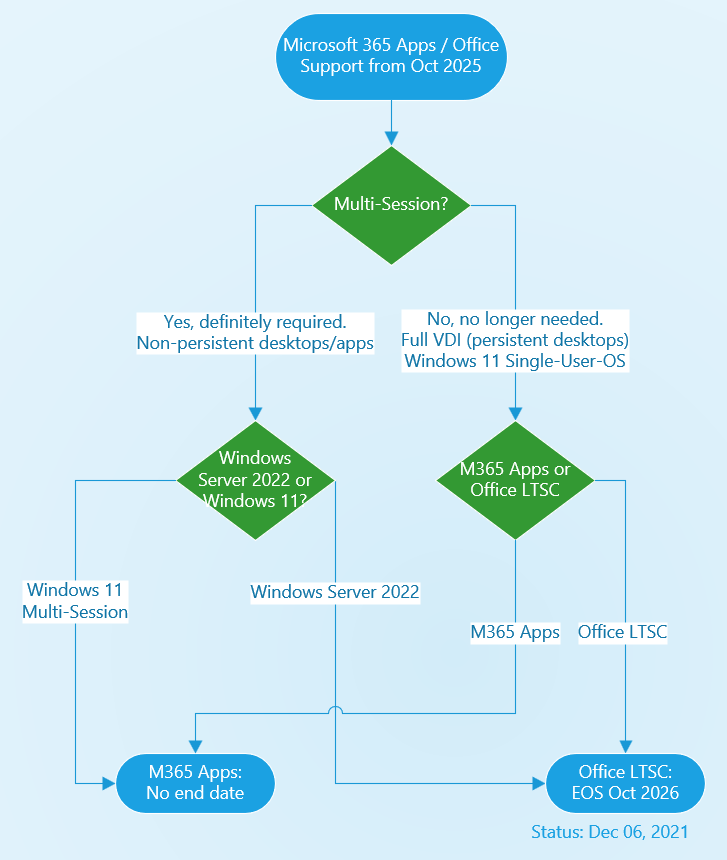
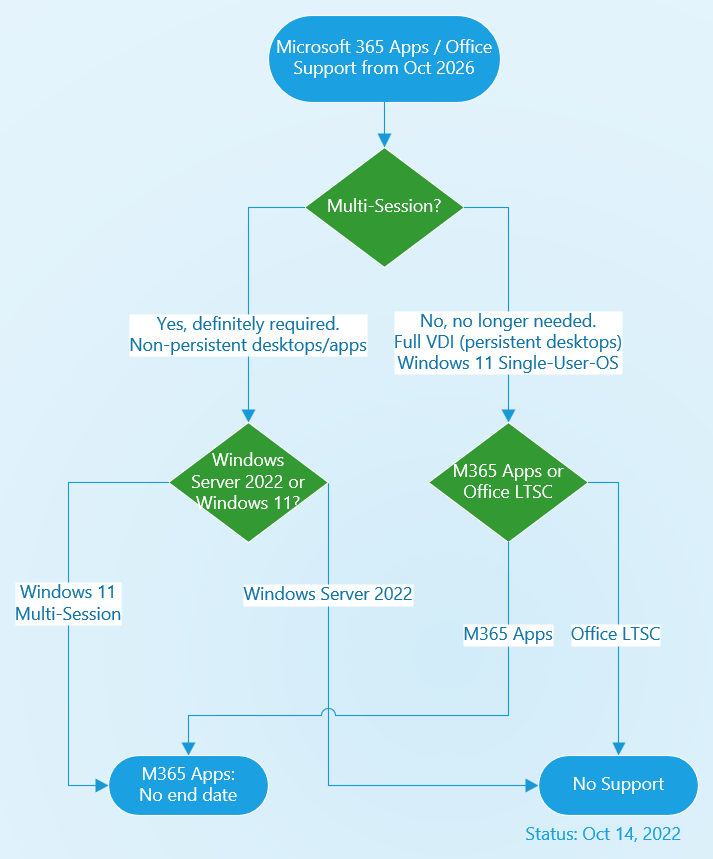
updated SupportM365AppsMultiSessionOS.md to the latest news

diff --git a/_posts/2022-26-08-SupportM365AppsMultiSessionOS.md b/_posts/2022-26-08-SupportM365AppsMultiSessionOS.md
@@ -1,11 +1,11 @@
 ---
 layout: post
-title:  "How to support Microsoft 365 apps on multi-session OS from 2025?"
+title:  "How to support Microsoft 365 apps on multi-session OS from 2026?"
 date:   2022-08-26 14:00:00 +0100
 categories: AVD
 tags: [AVD,Microsoft365,AzureStackHCI,Azure]
 ---
-# How to support Microsoft 365 apps on multi-session OS from 2025?
+# How to support Microsoft 365 apps on multi-session OS from 2026?
 
 ![This image shows the AVDPunk Header](/assets/img/2022-08-26/2022-08-26-000.png)
 
@@ -16,18 +16,18 @@ tags: [AVD,Microsoft365,AzureStackHCI,Azure]
 
 ## Introduction
 
-It's hard to read, but support for Microsoft 365 Apps on Windows Server 2019 ends in October 2025 and there is no support on Windows Server 2022. 
+It's hard to read, but support for Microsoft 365 Apps on Windows Server 2019 ends in October 2025 and on Windows Server 2022 ends in October 2026, when main support for Windows Server 2022 ends.  
 
 Here are the official statements from Microsoft documentation:
 > Microsoft 365 Apps is supported on Windows Server 2019 only until October 2025.
 
-> Microsoft 365 Apps isn’t supported on Windows Server 2022.
+> Microsoft 365 Apps is supported on Windows Server 2022 only until October 2026, which is when mainstream support ends for Windows Server 2022.
 
 All statements and dates of the end of support can be find here: [Windows Server end of support and Microsoft 365 Apps](https://docs.microsoft.com/en-us/deployoffice/endofsupport/windows-server-support)
 
 **What does this mean?**
 
-Microsoft 365 apps are no longer supported on Windows Server (Multisession OS) and you need to **plan a migration path now to be ready in October 2025** if you want to use Multisession OS for your virtual desktop environments. 
+Microsoft 365 apps are no longer supported on Windows Server (Multisession OS) and you need to **plan a migration path now to be ready in October 2026** if you want to use Multisession OS for your virtual desktop environments. 
 
 Otherwise, you can only use personal desktops based on Windows 11 Pro/Enterprise. This can be a good solution, but for most customers it is a capacity and budget discussion. Multisession environments combine user sessions on one virtual machine to save costs and take benefit of scaling features. 
 
@@ -35,15 +35,15 @@ Otherwise, you can only use personal desktops based on Windows 11 Pro/Enterprise
 
 You must ask you the following question:
 
-**Do I still need a multi-session solution with Microsoft 365 from October 2025?**
+**Do I still need a multi-session solution with Microsoft 365 from October 2026?**
 
 Please follow this flowchart to find your answer:
 
 ![Microsoft 365 Apps / Office support from Oct 25](/assets/img/2022-08-26/2022-08-26-001.png)
 
-If you want to use Windows Server 2022 as your base operating system, you'll need to move to the Office LTSC build, but even that support ends a year later in October 2026. Furthermore, Office LTSC requires an additional license and is not included in existing Microsoft 365 plans.
-
 If your answer is: "Yes, I need a multisession solution for my virtual desktops in the future," then there is **only one option**: you need to switch to the **Windows 11 multisession OS**. 
+
+Otherwise, there is no future support for Microsoft 365 Apps or Office LTSC on Windows Server 2019/2022. Additionally, Office LTSC support for Windows 11 will also end in October 2026. 
 
 What are the options to achieve this approach? 
 
@@ -55,17 +55,17 @@ You will find your answer in the following flowchart:
 
 If your Windows 11 Multisession virtual machines are running on **Azure or** [**Azure Stack HCI**](https://docs.microsoft.com/en-us/azure/virtual-desktop/azure-stack-hci-overview), everything is fine and supported. That is a fact for now. 
 
-**Other hosting solutions or other public cloud providers do not have support for Windows 11 Multisession OS.** 
+> **Other hosting solutions or other public cloud providers do not have support for Windows 11 Multisession OS.** 
 
 ## Conclusion
 
-In summary, there are three options for supporting Microsoft 365 Apps on Windows 11 Multisession OS from October 2025. 
+In summary, there are three options for supporting Microsoft 365 Apps on Windows 11 Multisession OS from October 2023. 
 
 These options are native **Azure Virtual Desktop, Azure Stack HCI + AVD (currently public preview)**, and **Citrix Cloud on Azure / VMWare Horizon Cloud on Azure**. 
 
-All other hosting platforms do not support Windows 11 Multisession OS from October 2025.
+All other hosting platforms do not support Windows 11 Multisession OS.
 
-Windows Server 2022 does not support Microsoft 365 today. 
+Windows Server 2022 does support Microsoft 365 Apps until October 2026. 
 
 And Windows 2019 will not support Microsoft 365 applications from October 2025. 
 
@@ -73,4 +73,6 @@ Ultimately, you'll need to analyze your use cases and decide if you want to depl
 
 **Start your research and planning sooner, before it's too late.**
 
-> This blog post is only to clarify the current situation of Microsoft 365 Apps on Multisession OS from October 2025.
+Here you can find a guide for [Microsoft 365 Apps migration from Windows Server.](https://learn.microsoft.com/en-us/deployoffice/endofsupport/windows-server-migration)
+
+> This blog post is only to clarify the current situation of Microsoft 365 Apps on Multisession OS from October 2026.
